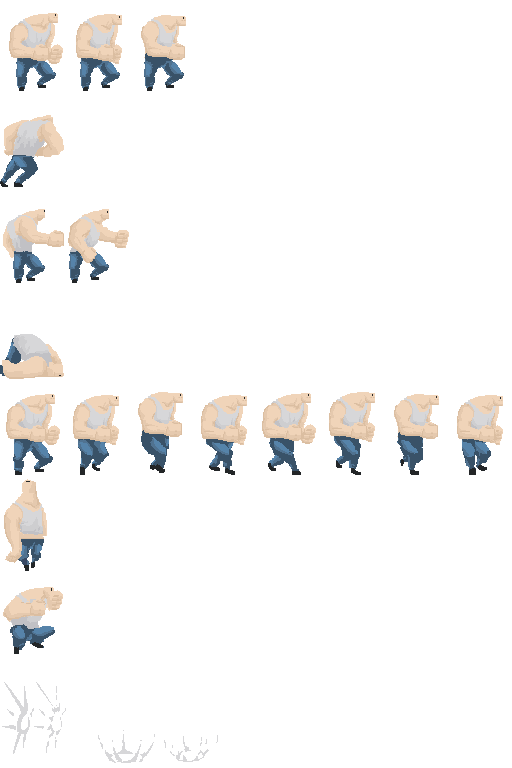
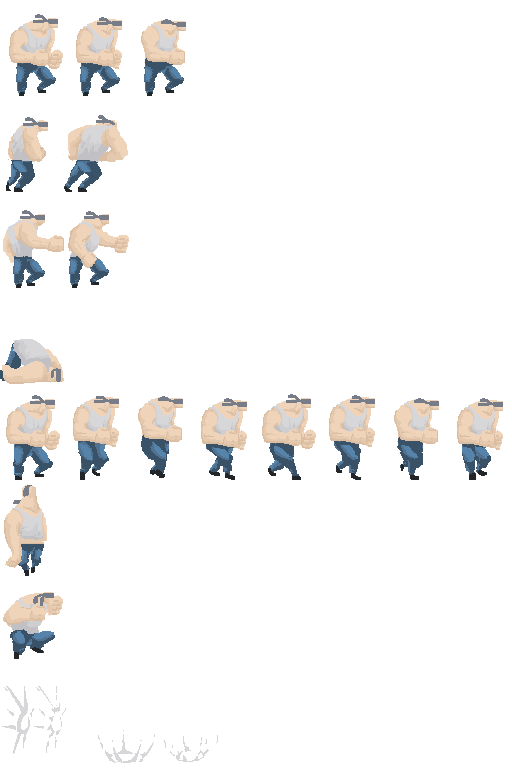
Added animations for walk and idle. Updated spritesheets.

diff --git a/js/states/game.js b/js/states/game.js
@@ -8,10 +8,13 @@ define([
     'components/life',
     'components/movable',
     'components/attack',
-    'components/animation',
     'components/position',
     'components/player',
     'components/map',
+
+    'components/animated',
+    'components/animation-idle',
+    'components/animation-walk',
 
     'processors/rendering',
     'processors/input',
@@ -28,10 +31,13 @@ function (
     Life,
     Movable,
     Attack,
-    Animation,
     Position,
     Player,
     Map,
+
+    Animated,
+    AnimationWalk,
+    AnimationIdle,
 
     RenderingProcessor,
     InputProcessor,
@@ -68,10 +74,12 @@ function (
                 Life,
                 Movable,
                 Attack,
-                Animation,
                 Position,
                 Player,
-                Map
+                Map,
+                Animated,
+                AnimationWalk,
+                AnimationIdle
             ];
             for (var i = components.length - 1; i >= 0; i--) {
                 this.manager.addComponent(components[i].name, components[i]);
@@ -83,18 +91,23 @@ function (
             this.manager.addProcessor(new DeathProcessor(this.manager, this.game));
             this.manager.addProcessor(new PhysicsProcessor(this.manager, this.game));
 
-            var player = this.manager.createEntity(['Player', 'Position', 'Displayable', 'Movable', 'Life']);
-            var player2 = this.manager.createEntity(['Player', 'Position', 'Displayable', 'Life']);
+            var player = this.manager.createEntity([
+                'Player', 'Position', 'Displayable', 'Movable', 'Life', 'Animated', 'AnimationIdle', 'AnimationWalk'
+            ]);
+
+            var player2 = this.manager.createEntity([
+                'Player', 'Position', 'Displayable', 'Life', 'Animated', 'AnimationIdle', 'AnimationWalk'
+            ]);
             this.manager.getComponentDataForEntity('Player', player2).number = 1;
-            this.manager.getComponentDataForEntity('Life', player).value = 100;
-            this.manager.getComponentDataForEntity('Life', player2).value = 100;
             this.manager.getComponentDataForEntity('Displayable', player2).sprite = 'chara_thin';
             this.manager.getComponentDataForEntity('Position', player2).y = 100;
             this.manager.getComponentDataForEntity('Position', player2).x = 300;
+            this.manager.getComponentDataForEntity('AnimationIdle', player2).keys = [0, 1, 2, 3];
+            this.manager.getComponentDataForEntity('AnimationIdle', player2).speed = 8;
+            this.manager.getComponentDataForEntity('AnimationWalk', player2).speed = 8;
 
             var map = this.manager.createEntity(['Map']);
             this.manager.getComponentDataForEntity('Map', map).resourceId = 'level_map';
-
         },
 
     };

diff --git a/js/processors/rendering.js b/js/processors/rendering.js
@@ -11,16 +11,31 @@ define(function () {
         this.sprites = {};
     };
 
-    RenderingProcessor.prototype.createSprite = function (displayableId, displayableData) {
-        var positionData = this.manager.getComponentDataForEntity('Position', displayableId);
+    RenderingProcessor.prototype.createSprite = function (entity, displayableData) {
+        var positionData = this.manager.getComponentDataForEntity('Position', entity);
 
         var sprite = this.game.add.sprite(positionData.x, positionData.y, displayableData.sprite);
         this.game.physics.p2.enable(sprite);
-        this.sprites[displayableId] = sprite;
+        this.sprites[entity] = sprite;
 
+        if (this.manager.entityHasComponent(entity, 'Animated')) {
+            // Add all animations to that Sprite.
+            var animationComponents = ['AnimationIdle', 'AnimationWalk'];
+
+            for (var c in animationComponents) {
+                var comp = animationComponents[c];
+                console.log(comp);
+                if (this.manager.entityHasComponent(entity, comp)) {
+                    var animData = this.manager.getComponentDataForEntity(comp, entity);
+                    this.sprites[entity].animations.add(animData.anim, animData.keys, animData.speed, animData.loop);
+                }
+            }
+        }
     };
 
     RenderingProcessor.prototype.update = function () {
+        var entity;
+
         // Display the map.
         var maps = this.manager.getComponentsData('Map');
         for (var mapId in maps) {
@@ -34,7 +49,7 @@ define(function () {
 
         // Display all sprites.
         var displayables = this.manager.getComponentsData('Displayable');
-        for (var entity in displayables) {
+        for (entity in displayables) {
             // First create the actual Phaser.Sprite object if it doesn't exist yet.
             if (!this.sprites[entity]) {
                 this.createSprite(entity, displayables[entity]);
@@ -48,6 +63,12 @@ define(function () {
                 sprite.body.x = positionData.x;
                 sprite.body.y = positionData.y;
             }
+        }
+
+        // Run animations.
+        var animated = this.manager.getComponentsData('Animated');
+        for (entity in animated) {
+            this.sprites[entity].animations.play(animated[entity].current);
         }
     };
 

diff --git a/js/components/life.js b/js/components/life.js
@@ -1,11 +1,6 @@
-define(function () {
-
-    var Life = {
-        name: 'Life',
-        state: {
-            value: 0
-        }
-    };
-
-    return Life;
+define({
+    name: 'Life',
+    state: {
+        value: 100
+    }
 });

diff --git a/js/components/animation-walk.js b/js/components/animation-walk.js
@@ -1,0 +1,9 @@
+define({
+    name: 'AnimationWalk',
+    state: {
+        anim: 'walk',
+        speed: 14,
+        loop: true,
+        keys: [32, 33, 34, 35, 36, 37, 38, 39],
+    }
+});

diff --git a/js/components/animation-idle.js b/js/components/animation-idle.js
@@ -1,0 +1,9 @@
+define({
+    name: 'AnimationIdle',
+    state: {
+        anim: 'idle',
+        speed: 6,
+        loop: true,
+        keys: [0, 1, 2, 1],
+    }
+});

diff --git a/js/components/animated.js b/js/components/animated.js
@@ -1,5 +1,6 @@
 define({
     name: 'Animated',
     state: {
+        current: 'walk',
     }
 });
